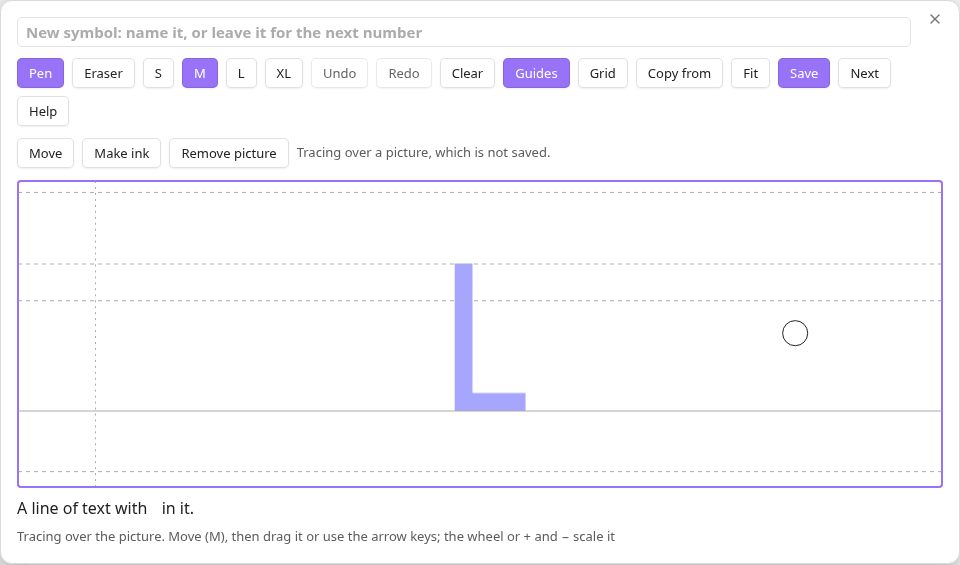
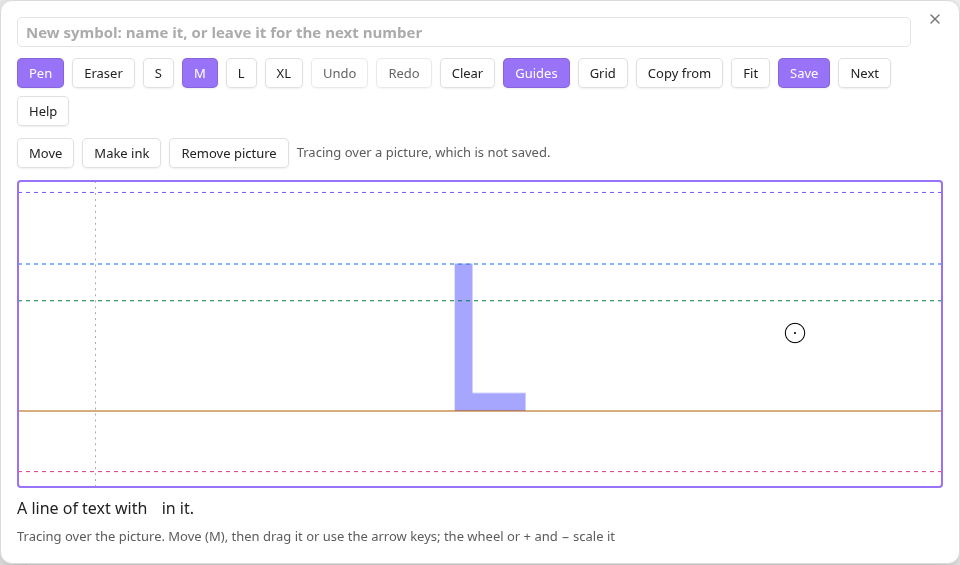
Recognise coloured guides in the picture checks, and darken two
Address the independent review of de76e72: the tracing and journey
host tests failed on both hosts because the picture helpers took the
orange baseline for a red picture and purple and blue lines for a blue
one, and expected grey guides. They now treat any pixel in a guide's
computed colour as a guide's.

- Light themes draw the x-height green and baseline orange darker,
  #067a34 and #b35900, about 5.5:1 and 4.8:1 against white where the
  theme's defaults gave 2.6:1 and 3.0:1.
- A colour the canvas cannot read falls back to the faint guide colour,
  not the line before's.
- The guide-lines spec skips clear pixels, as undrawn ones are, so the
  line's colour wins its row.
- Help and the settings call the colours defaults, and the guide's
  screenshot shows them.

Assisted-by: Claude Opus 5.5 via Claude Code

Changed region(s): [[0.0312, 0.7221, 0.9688, 0.7522], [0.8125, 0.5717, 0.8438, 0.6319]]

diff --git a/test/e2e/browser/pictures.ts b/test/e2e/browser/pictures.ts
@@ -115,9 +115,46 @@ export function drop(target: Element, item: File | { uriList: string }): void {
   }
 }
 
-/** Whether a pixel is clearly red or blue, as no ink or guide is. */
+/** Whether a pixel is clearly red or blue, as no ink is. */
 function tinted(colour: "red" | "blue", r: number, g: number, b: number) {
   return colour === "red" ? r - Math.max(g, b) > 100 : b - Math.max(r, g) > 100;
+}
+
+/** The custom properties the surface's guides take their colours from. */
+const guideProperties = [
+  "--inkline-guide",
+  "--inkline-guide-ascender",
+  "--inkline-guide-cap-height",
+  "--inkline-guide-x-height",
+  "--inkline-guide-baseline",
+  "--inkline-guide-descender",
+];
+
+/**
+ * The colours the guides on `canvas` are drawn in, as RGB: crisp and opaque,
+ * over any picture, so that a pixel in one of them is a guide's.
+ */
+function guideColours(canvas: HTMLCanvasElement): number[][] {
+  const probe = new OffscreenCanvas(1, 1).getContext("2d");
+  if (probe === null) throw new Error("no 2D canvas context");
+  const style = getComputedStyle(canvas);
+  return guideProperties
+    .map((name) => style.getPropertyValue(name).trim())
+    .filter((value) => value !== "")
+    .map((value) => {
+      probe.clearRect(0, 0, 1, 1);
+      probe.fillStyle = value;
+      probe.fillRect(0, 0, 1, 1);
+      return [...probe.getImageData(0, 0, 1, 1).data.slice(0, 3)];
+    });
+}
+
+/** Whether `r`, `g`, `b` is one of `colours`, within rounding. */
+function among(colours: number[][], r: number, g: number, b: number) {
+  return colours.some(
+    ([cr = 0, cg = 0, cb = 0]) =>
+      Math.abs(r - cr) <= 3 && Math.abs(g - cg) <= 3 && Math.abs(b - cb) <= 3,
+  );
 }
 
 /**
@@ -140,6 +177,7 @@ export function shown(
   if (context === null) throw new Error("no 2D canvas context");
   const { width, height } = canvas;
   const { data } = context.getImageData(0, 0, width, height);
+  const guides = guideColours(canvas);
   let left = width;
   let top = height;
   let right = -1;
@@ -149,7 +187,7 @@ export function shown(
       const at = (y * width + x) * 4;
       if ((data[at + 3] ?? 0) === 0) continue;
       const [r = 0, g = 0, b = 0] = data.subarray(at, at + 3);
-      if (!tinted(colour, r, g, b)) {
+      if (!tinted(colour, r, g, b) || among(guides, r, g, b)) {
         continue;
       }
       left = Math.min(left, x);
@@ -167,9 +205,9 @@ export function shown(
 
 /**
  * How many pixels of row `y` of the surface, from `left` to `right`, are
- * drawn in a grey, as the guides are and a red or blue picture is not.
+ * drawn in a guide's colour, as a red or blue picture is not.
  */
-export function greyIn(
+export function guideIn(
   canvas: HTMLCanvasElement,
   y: number,
   left: number,
@@ -178,10 +216,11 @@ export function greyIn(
   const context = canvas.getContext("2d");
   if (context === null) throw new Error("no 2D canvas context");
   const { data } = context.getImageData(left, y, right - left, 1);
+  const guides = guideColours(canvas);
   let count = 0;
   for (let at = 0; at < data.length; at += 4) {
     const [r = 0, g = 0, b = 0, a = 0] = data.subarray(at, at + 4);
-    if (a > 0 && Math.abs(r - g) <= 2 && Math.abs(g - b) <= 2) count++;
+    if (a > 0 && among(guides, r, g, b)) count++;
   }
   return count;
 }

diff --git a/src/editor/modal.ts b/src/editor/modal.ts
@@ -1913,11 +1913,11 @@ export class InkEditorModal extends Modal {
     });
     const guides = content.createEl("ul");
     for (const text of [
-      "Ascender (purple): the font's upper extent.",
-      "Cap height (blue): the top of a capital such as H.",
-      "x-height (green): the top of a lowercase letter such as x.",
-      "Baseline (orange, solid): where letters sit.",
-      "Descender (pink): the font's lower extent, for parts below the baseline.",
+      "Ascender (purple by default): the font's upper extent.",
+      "Cap height (blue by default): the top of a capital such as H.",
+      "x-height (green by default): the top of a lowercase letter such as x.",
+      "Baseline (orange by default, solid): where letters sit.",
+      "Descender (pink by default): the font's lower extent, for parts below the baseline.",
       "Vertical dashed lines: the saved image's left and right edges, including spacing. They follow the ink as you draw.",
     ])
       guides.createEl("li", { text });

diff --git a/src/settings-tab.ts b/src/settings-tab.ts
@@ -30,11 +30,11 @@ const guideLabels: Readonly<Record<GuideName, string>> = {
 
 /** What each line marks, and its colour, as the theme gives it by default. */
 const guideDescriptions: Readonly<Record<GuideName, string>> = {
-  ascender: "The font's upper extent, in purple.",
-  "cap height": "The top of a capital such as H, in blue.",
-  "x-height": "The top of a lowercase letter such as x, in green.",
-  baseline: "Where letters sit, solid, in orange.",
-  descender: "The font's lower extent, in pink.",
+  ascender: "The font's upper extent, purple by default.",
+  "cap height": "The top of a capital such as H, blue by default.",
+  "x-height": "The top of a lowercase letter such as x, green by default.",
+  baseline: "Where letters sit, solid, orange by default.",
+  descender: "The font's lower extent, pink by default.",
 };
 
 /** What the tab needs of the plugin: its settings, and a way to change one. */

diff --git a/test/e2e/specs/guide-lines.e2e.ts b/test/e2e/specs/guide-lines.e2e.ts
@@ -84,6 +84,8 @@ async function linesShown(): Promise<LineShown[]> {
         let marked = 0;
         for (let x = 0; x < pixels.width; x++) {
           const at = (row * pixels.width + x) * 4;
+          // Undrawn pixels are clear, not the background colour.
+          if ((pixels.data[at + 3] ?? 0) === 0) continue;
           const colour = [...pixels.data.slice(at, at + 3)];
           if (near(colour, ground)) continue;
           if (near(colour, expected)) marked++;

diff --git a/src/editor/view.ts b/src/editor/view.ts
@@ -343,6 +343,8 @@ export class InkView {
     context.strokeStyle = colour;
     context.lineWidth = 1;
     for (const line of lines) {
+      // A value the canvas cannot read leaves the faint guide colour.
+      context.strokeStyle = colour;
       context.strokeStyle =
         style.getPropertyValue(guideColourProperty(line.name)).trim() || colour;
       context.setLineDash(line.name === "baseline" ? [] : [4, 4]);

diff --git a/styles.css b/styles.css
@@ -92,6 +92,13 @@
   touch-action: none;
 }
 
+/* The theme's default green and orange fall below 3:1 against a light
+   background, so light themes draw those lines darker. */
+.theme-light .inkline-surface {
+  --inkline-guide-x-height: #067a34;
+  --inkline-guide-baseline: #b35900;
+}
+
 /* Hide the system pointer only while a complete replacement is visible. */
 .inkline-surface.has-brush-cursor {
   cursor: none;

diff --git a/test/e2e/specs/editor.e2e.ts b/test/e2e/specs/editor.e2e.ts
@@ -3892,7 +3892,7 @@ describe("The editor", function () {
           if (canvas?.instanceOf(HTMLCanvasElement) !== true) {
             throw new Error("no surface");
           }
-          return window.inklineTest.pictures.greyIn(canvas, row, from, to);
+          return window.inklineTest.pictures.guideIn(canvas, row, from, to);
         },
         Math.round(xTop * factor),
         Math.ceil(shown?.left ?? 0),

diff --git a/docs/drawing.md b/docs/drawing.md
@@ -72,7 +72,8 @@ x (x-height), the solid baseline where letters sit, and the font's lower extent
 area. The vertical dashed lines mark the saved image's edges, including spacing.
 
 Each font line has a colour of its own, from your theme: ascender purple, cap
-height blue, x-height green, baseline orange, and descender pink. Inkline's
+height blue, x-height green, baseline orange, and descender pink; light themes
+draw the green and orange darker, for contrast with the background. Inkline's
 [settings](./settings.md) choose which lines show; **Guides** then shows or
 hides those together. A CSS snippet can change a line's colour by setting
 `--inkline-guide-ascender`, `--inkline-guide-cap-height`,

diff --git a/CHANGELOG.md b/CHANGELOG.md
@@ -20,7 +20,8 @@ publication remains on hold, as the earlier
 
 - Each guide line has a colour of its own, from your theme: ascender purple, cap
   height blue, x-height green, baseline orange, and descender pink, named in
-  Help and the settings. A CSS snippet can change them.
+  Help and the settings. Light themes draw the green and orange darker, for
+  contrast. A CSS snippet can change them.
 - A **Guides** group in the settings turns each font line on or off. The setting
   that shows guides in a new editor is now **Show in a new editor**, in the same
   group; G still shows or hides the chosen lines.
